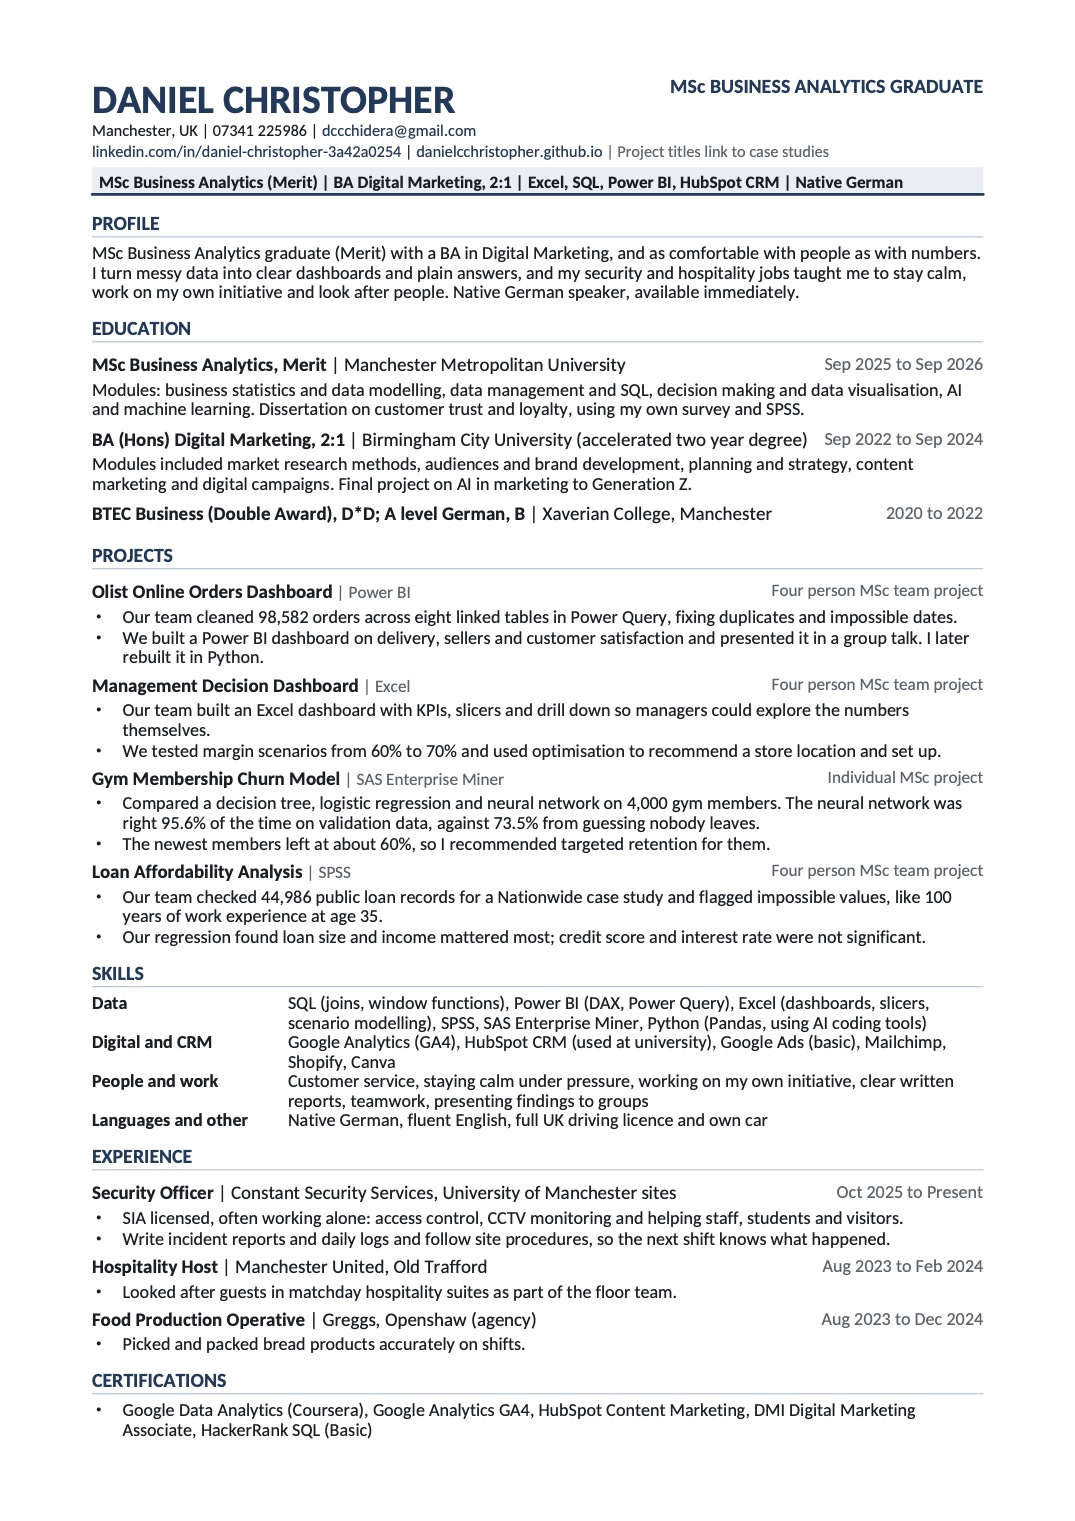
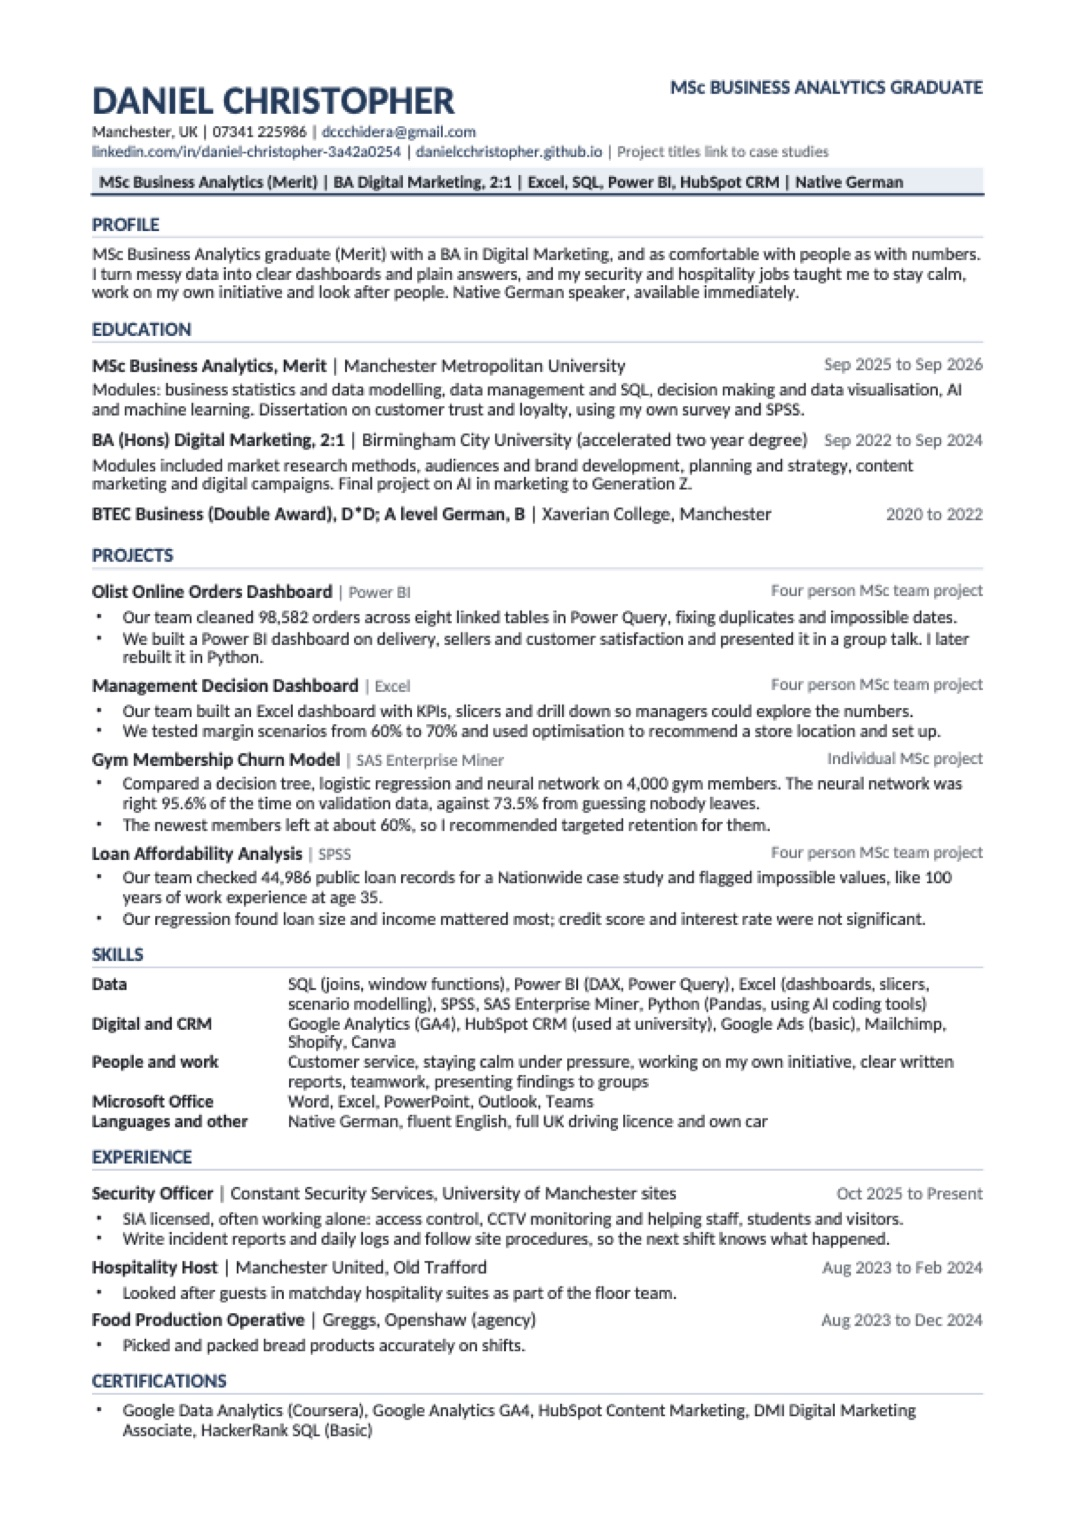
Add Microsoft Office to the CV and toolkit

diff --git a/app/page.tsx b/app/page.tsx
@@ -46,6 +46,7 @@ const toolkit = [
   "SQL",
   "Power BI and DAX",
   "Excel",
+  "Microsoft Office (Word, PowerPoint, Outlook, Teams)",
   "SPSS",
   "SAS Enterprise Miner",
   "Python (Pandas)",
